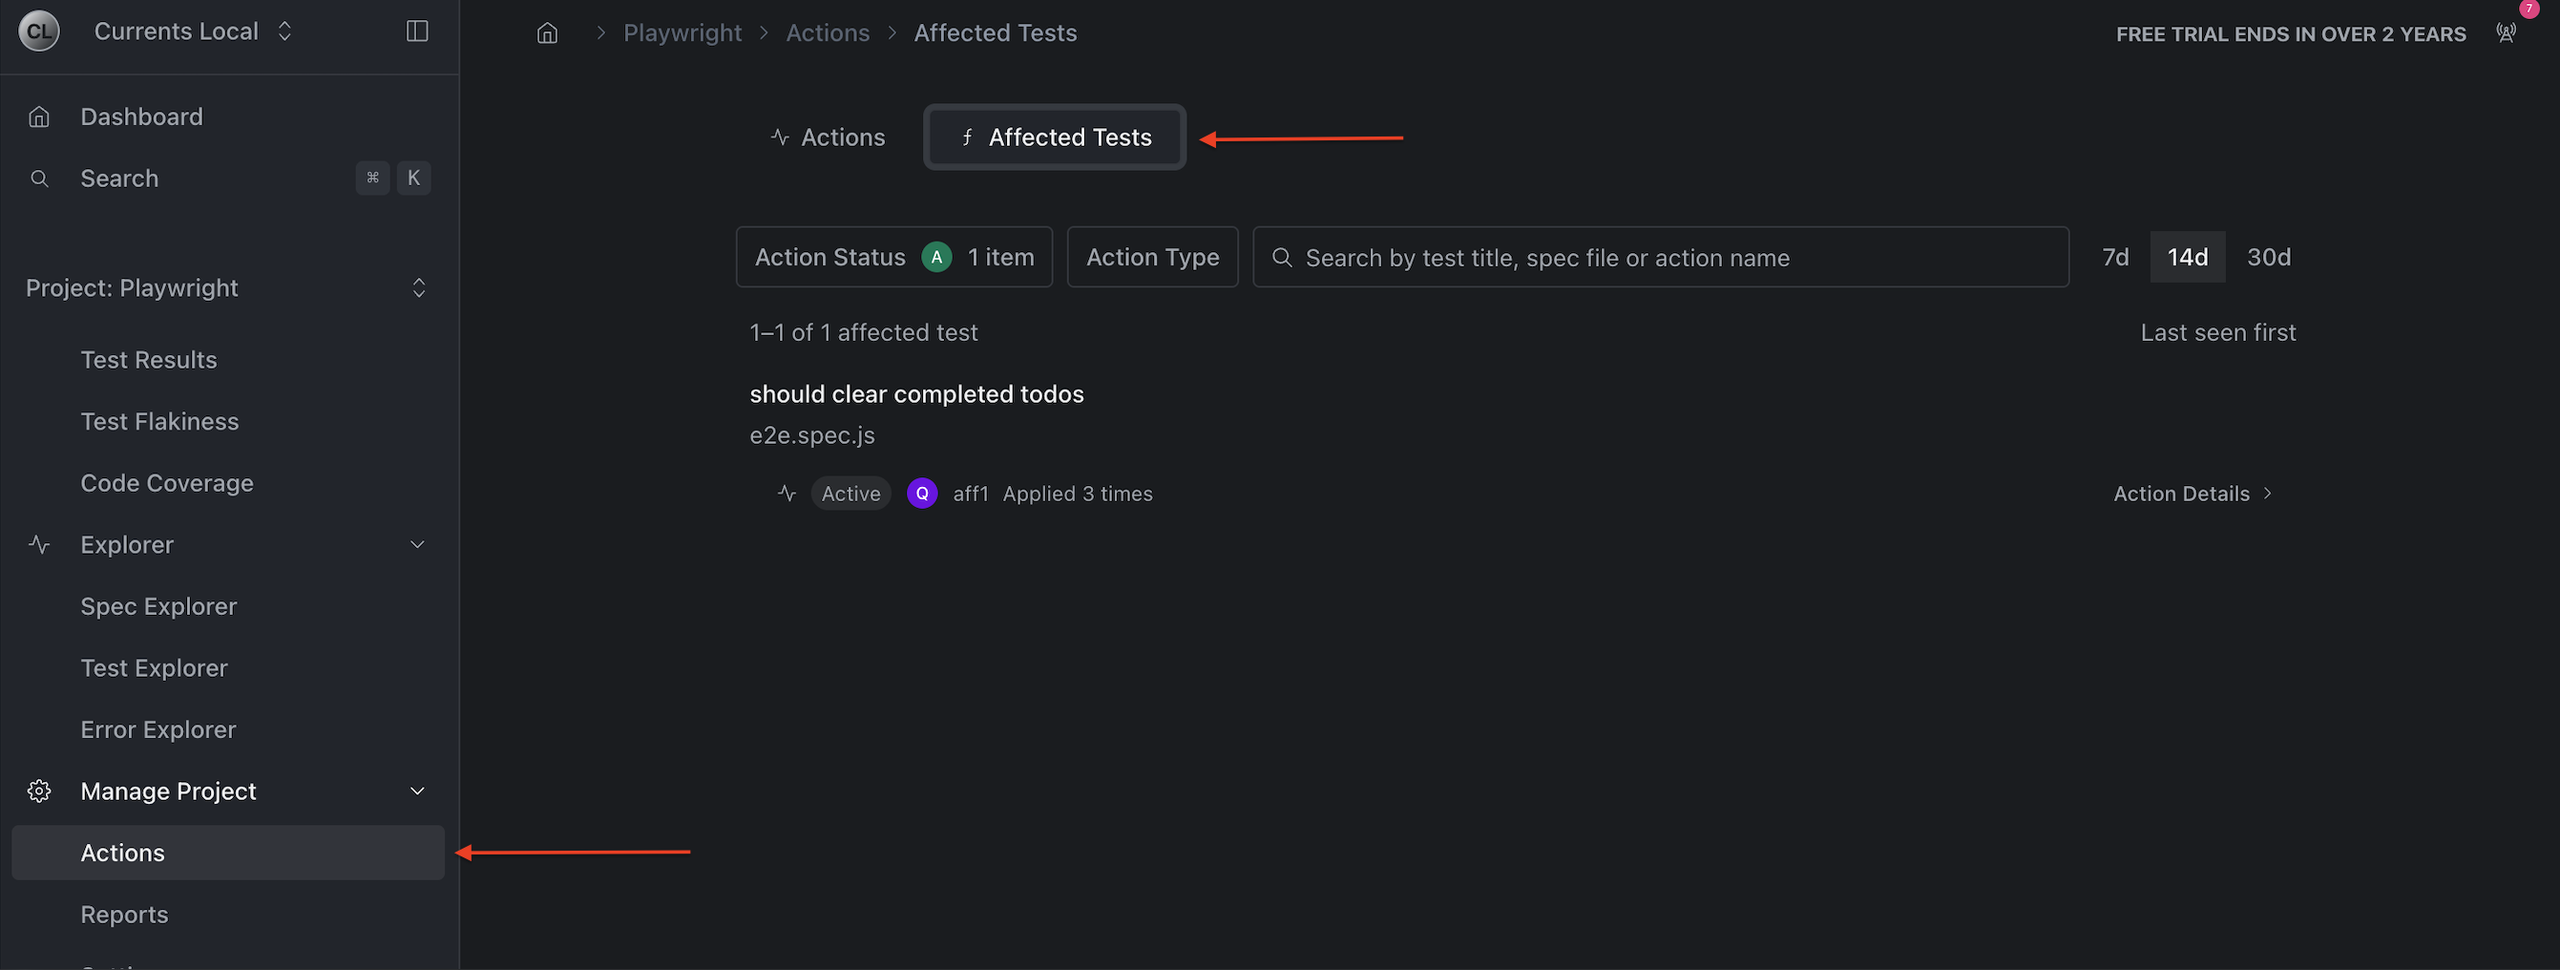
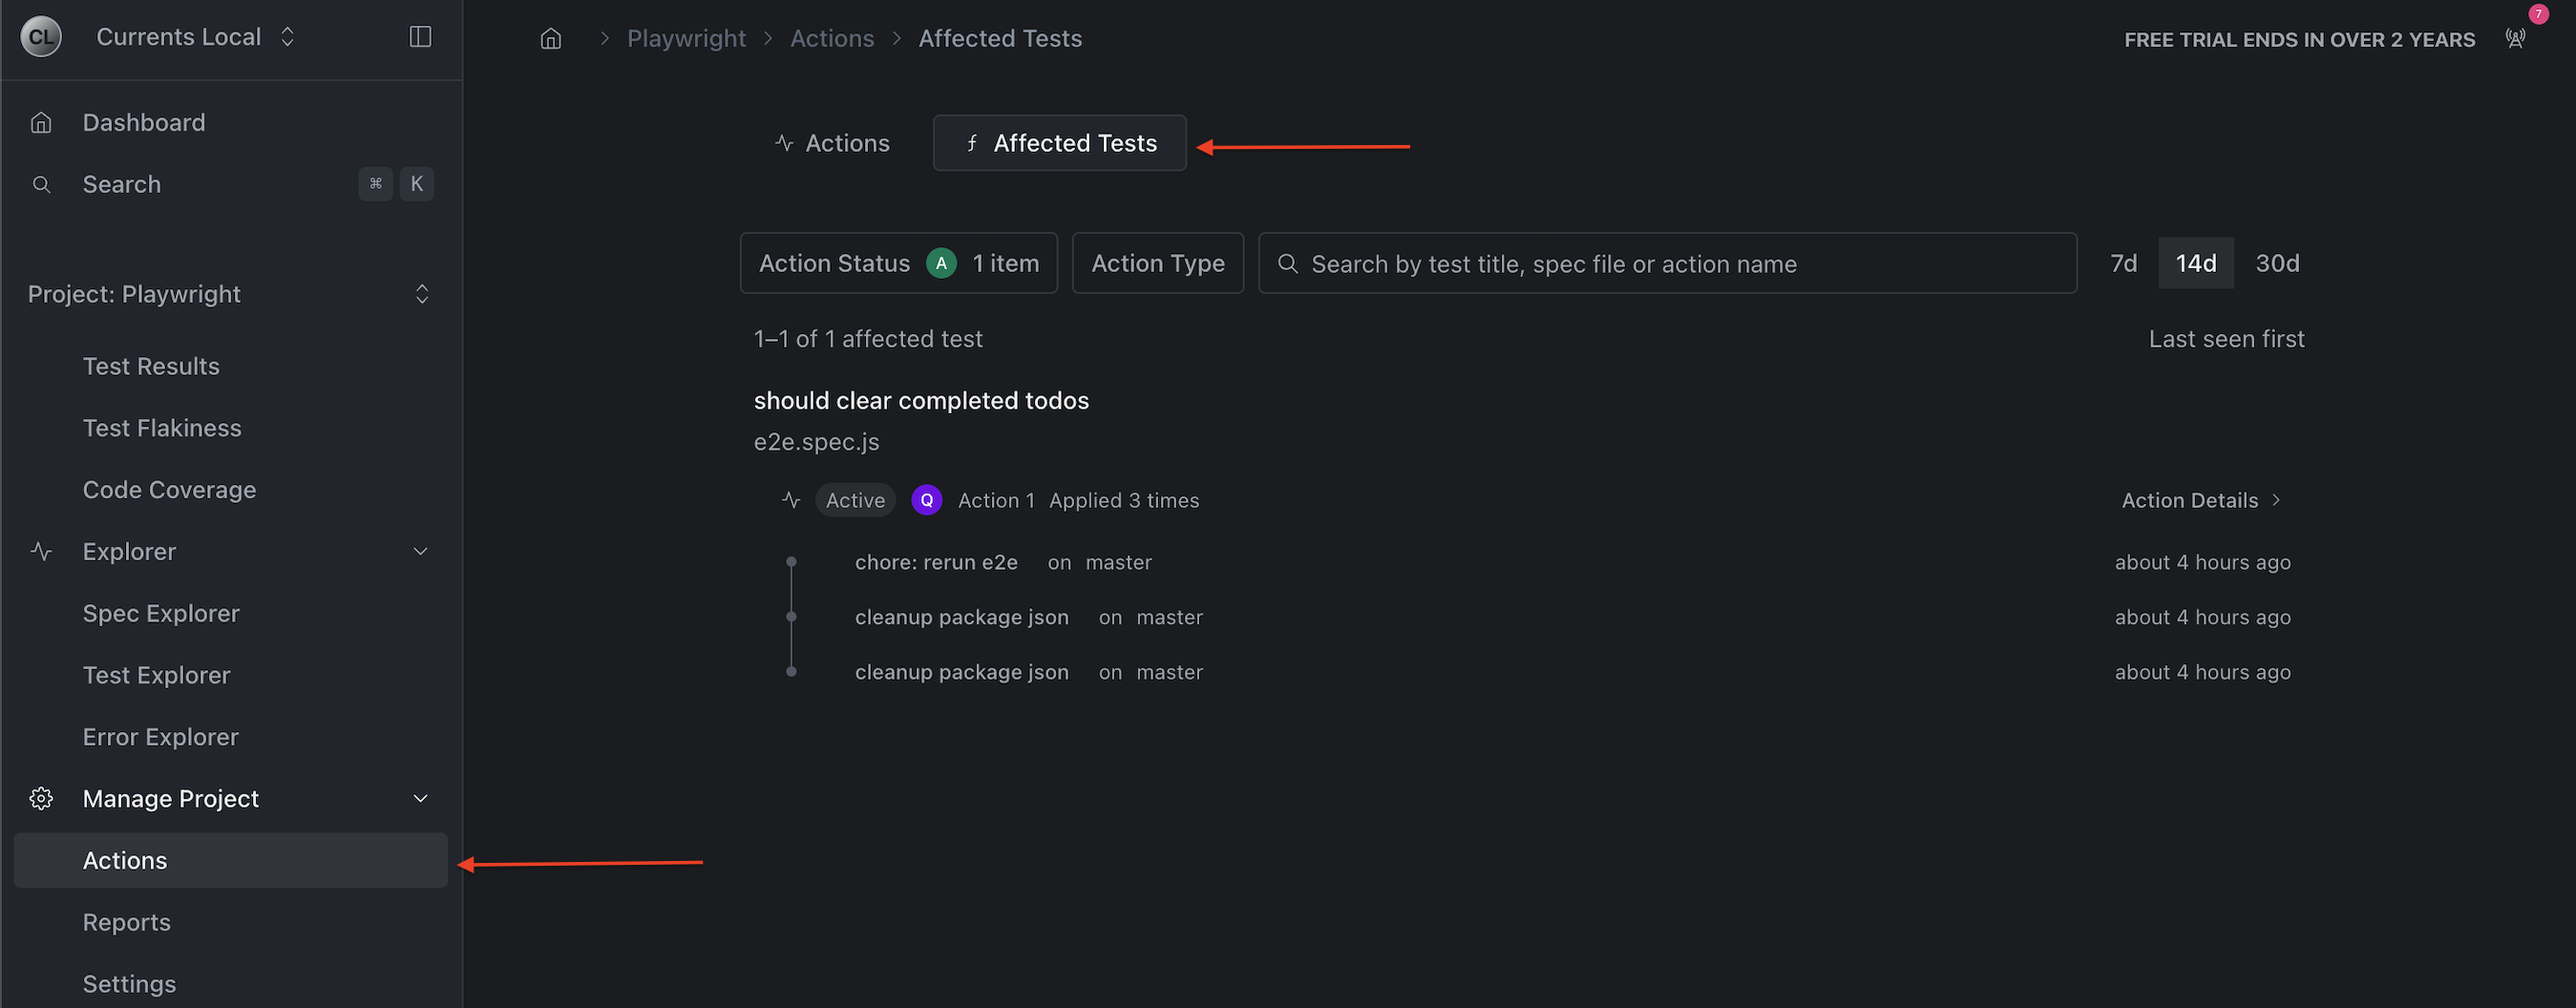
GITBOOK-843: Generic artifacts

diff --git a/resources/reporters/data-format-reference.md b/resources/reporters/data-format-reference.md
@@ -19,6 +19,10 @@ Within the Results Directory, the following structure of files and directories i
 
 ```
 results-dir/
+├── artifacts/
+│   ├── <artifact-hash-1>.mp4
+│   ├── <artifact-hash-2>.png
+│   ├── <artifact-hash-3>.txt
 ├── instances/
 │   ├── <instance-id-1>.json
 │   ├── <instance-id-2>.json
@@ -32,6 +36,7 @@ The output consists of three main components:
 * `fullTestSuite.json` is the [#full-test-suite](data-format-reference.md#full-test-suite "mention") JSON document that contains the tests expected to be reported. It does not contain test results.
 * `config.json` is a [#configuration-file](data-format-reference.md#configuration-file "mention") that contains metadata such as test framework name, version, and more.
 * `instances` folder contains [#instance-files](data-format-reference.md#instance-files "mention") - JSON documents that represent a spec file or logical collection and the associated test results.
+* `artifacts` folder contains [#artifact](data-format-reference.md#artifact "mention") files that can be any file restricted by level on the accepted formats.
 
 ## Full Test Suite
 
@@ -40,6 +45,10 @@ The Full Test Suite is a JSON-formatted file that contains a list of all tests e
 Each element in the `fullTestSuite.json` file array represents a group of tests, organized by the `name` property which defines the group name.
 
 <figure><img src="../../.gitbook/assets/Screenshot 2026-01-19 at 19.52.39.png" alt=""><figcaption><p>Note that the property "name" is showed as the "group name" in the dashboard.</p></figcaption></figure>
+
+
+
+
 
 {% hint style="info" %}
 Currents requires that all test results from the Full Test Suite be submitted before the project's specified timeout. If results are not received by the deadline, the run is marked as timed out. See [run-timeouts.md](../../dashboard/runs/run-timeouts.md "mention").
@@ -344,6 +353,16 @@ Object that describes an individual attempt of a test.
 | message  | string | Yes      | A description of the error encountered during the test attempt. Example: "expected 631 to be below 200"                                |
 | stack    | string | No       | The stack trace related to the error. Example: "AssertionError: expected 631 to be below 200\n at Object.eval sandbox-script.js:2:1)." |
 | value    | string | No       | The type or categorization of the error. Example: "AssertionFailure"                                                                   |
+
+### Artifact
+
+| Property    | Type                                                                     | Required | Description                                                                                                                                                              |
+| ----------- | ------------------------------------------------------------------------ | -------- | ------------------------------------------------------------------------------------------------------------------------------------------------------------------------ |
+| path        | string                                                                   | Yes      | Relative path of the artifact saved in the `artifacts` folder                                                                                                            |
+| type        | string [currents-convert.md](currents-cmd/currents-convert.md "mention") | Yes      | Type of the artifact in Currents. Accepted values are: `screenshot`, `video`, `coverage`, `attachment`, `stdout`                                                         |
+| contentType | string                                                                   | Yes      | The MIME type of the file                                                                                                                                                |
+| name        | string                                                                   | Yes      | The name of the file                                                                                                                                                     |
+| level       | string [currents-convert.md](currents-cmd/currents-convert.md "mention") | Yes      | <p>Level to which the artifact belongs to.</p><p> Accepted values are (default <code>attempt</code>): <code>instance</code>, <code>test</code>, <code>attempt</code></p> |
 
 ### Generating testId
 

diff --git a/resources/reporters/currents-cmd/currents-convert.md b/resources/reporters/currents-cmd/currents-convert.md
@@ -59,38 +59,70 @@ npx currents convert \
 
 `currents convert` options apart from `--framework-version` are required. Use `--help` flag to list the available options.
 
-*   `--input-format`
-
-    * The format of the input test reports. Use the `--help` flag to see the supported formats
-    * **Type:** `junit`
-
-
-*   `--input-file`
-
-    * Comma-separated glob patterns to match the test results files (e.g., "report1.xml,report2.xml)
-    * The multi-file match is only available starting on version 1.6.8 of `@currents/cmd` package.
-    * **Type:** `string`
-
-
-*   `-o, --output-dir`
-
-    * The directory to save the converted test reports
-    * **Type:** `string`
-
-
-*   `--framework`
-
-    * The testing framework used to generate the test reports
-    * **Type:** `postman, vitest, wdio`
-
-
-*   `--framework-version`
-
-    * The version of the testing framework used to generate the test reports
-    * **Type:** `string`
-
-
+* `--input-format`
+  * The format of the input test reports. Use the `--help` flag to see the supported formats
+  * **Type:** `junit`
+* `--input-file`
+  * Comma-separated glob patterns to match the test results files (e.g., "report1.xml,report2.xml)
+  * The multi-file match is only available starting on version 1.6.8 of `@currents/cmd` package.
+  * **Type:** `string`
+* `-o, --output-dir`
+  * The directory to save the converted test reports
+  * **Type:** `string`
+* `--framework`
+  * The testing framework used to generate the test reports
+  * **Type:** `postman, vitest, wdio`
+* `--framework-version`
+  * The version of the testing framework used to generate the test reports
+  * **Type:** `string`
 * `--debug`
   * Enable debug logs
   * Environment variable: `DEBUG=currents*`
   * **Type:** `boolean`
+
+### Artifacts
+
+Artifacts are files that can be linked with specific `instance`, `test` or `attempt` according to the [#artifact-level](currents-convert.md#artifact-level "mention") of the artifact.&#x20;
+
+The artifacts are taken from the JUnit XML file that can be read from this tags structure:
+
+```
+<properties>
+      <property name="currents.artifact.{level}.path" value="./artifacts/manual/coverage.json" />
+      <property name="currents.artifact.{level}.type" value="coverage" />
+      <property name="currents.artifact.{level}.contentType" value="application/json" />
+      <property name="currents.artifact.{level}.name" value="Test Coverage" />
+</properties>
+```
+
+if the artifact is at attempt level it must also include the attempt index:
+
+```
+<properties>
+      <property name="currents.artifact.attempt.{n}.path" value="./artifacts/video.mp4" />
+      <property name="currents.artifact.attempt.{n}.type" value="video" />
+      <property name="currents.artifact.attempt.{n}.contentType" value="video/mp4" />
+      <property name="currents.artifact.attempt.{n}.name" value="Test Video" />
+</properties>
+```
+
+* For `instance` level artifacts, the `<properties>` tag must exist within a `<testsuite>` tag.
+* For `test` and `attempt` level artifacts, the `<properties>` tag must exist within a `<testcase>` tag.
+
+See [#artifact](../data-format-reference.md#artifact "mention") for a more specific data structure and the [JUnit example in the repository](https://github.com/currents-dev/currents-reporter/blob/main/examples/junit/junit-attempts.xml).
+
+#### Level <a href="#artifact-level" id="artifact-level"></a>
+
+The generic API reports support three types [#artifact-type](currents-convert.md#artifact-type "mention") of artifact levels:
+
+* `attempt`: Corresponds to the attempts (retries) made on each test.
+* `test`: Is the specific test code executed for a testing framework.
+* `instance`: Group of tests in a spec file.
+
+#### Type <a href="#artifact-type" id="artifact-type"></a>
+
+Currents Generic API accepts the following types of artifacts, each one according to the artifact level.
+
+* `attempt`: `video`, `screenshot`, `attachment`
+* `test`: `attachment`
+* `instance`: `coverage`, `attachment`, `stdout`

diff --git a/guides/currents-actions/affected-tests.md b/guides/currents-actions/affected-tests.md
@@ -11,7 +11,7 @@ The **Affected Tests** tab is part of the project **Actions** area in Currents. 
 1. Open the project in Currents.
 2. Go to **Manage Project** -> **Actions**.
 
-<figure><img src="../../.gitbook/assets/image (10).png" alt=""><figcaption></figcaption></figure>
+<figure><img src="../../.gitbook/assets/image (12).png" alt=""><figcaption></figcaption></figure>
 
 ***
 
@@ -31,7 +31,7 @@ From top to bottom:
 
 When a specific action is selected, a list of affected tests with its executions will show up at the bottom of the panel.
 
-<figure><img src="../../.gitbook/assets/image (2) (2).png" alt=""><figcaption></figcaption></figure>
+<figure><img src="../../.gitbook/assets/image (2) (3).png" alt=""><figcaption></figcaption></figure>
 
 ***
 

diff --git a/resources/integrations/github/github-app.md b/resources/integrations/github/github-app.md
@@ -107,7 +107,7 @@ Make sure to update any repository rules that makes it mandatory for the commit 
 
 Single Notification for all groups (Optional) – enabling will update GitHub commit status once per run event, regardless of the number of groups.
 
-<figure><img src="../../../.gitbook/assets/image (2) (2) (1).png" alt=""><figcaption><p>Single notification for all groups</p></figcaption></figure>
+<figure><img src="../../../.gitbook/assets/image (2) (2).png" alt=""><figcaption><p>Single notification for all groups</p></figcaption></figure>
 
 ### Troubleshooting GitHub Integration
 

diff --git a/getting-started/other-frameworks/jest/your-first-jest-run.md b/getting-started/other-frameworks/jest/your-first-jest-run.md
@@ -114,7 +114,7 @@ You can defined the Record Key and Project ID in the [Reporter configuration](..
 
 The execution results will show on the Currents dashboard. The latest report should be uploaded to Currents, and a link to the run will be displayed.
 
-<figure><img src="../../../.gitbook/assets/image (10) (1).png" alt=""><figcaption><p>A link to the recorded results</p></figcaption></figure>
+<figure><img src="../../../.gitbook/assets/image (10).png" alt=""><figcaption><p>A link to the recorded results</p></figcaption></figure>
 
 ## Good To Know
 
